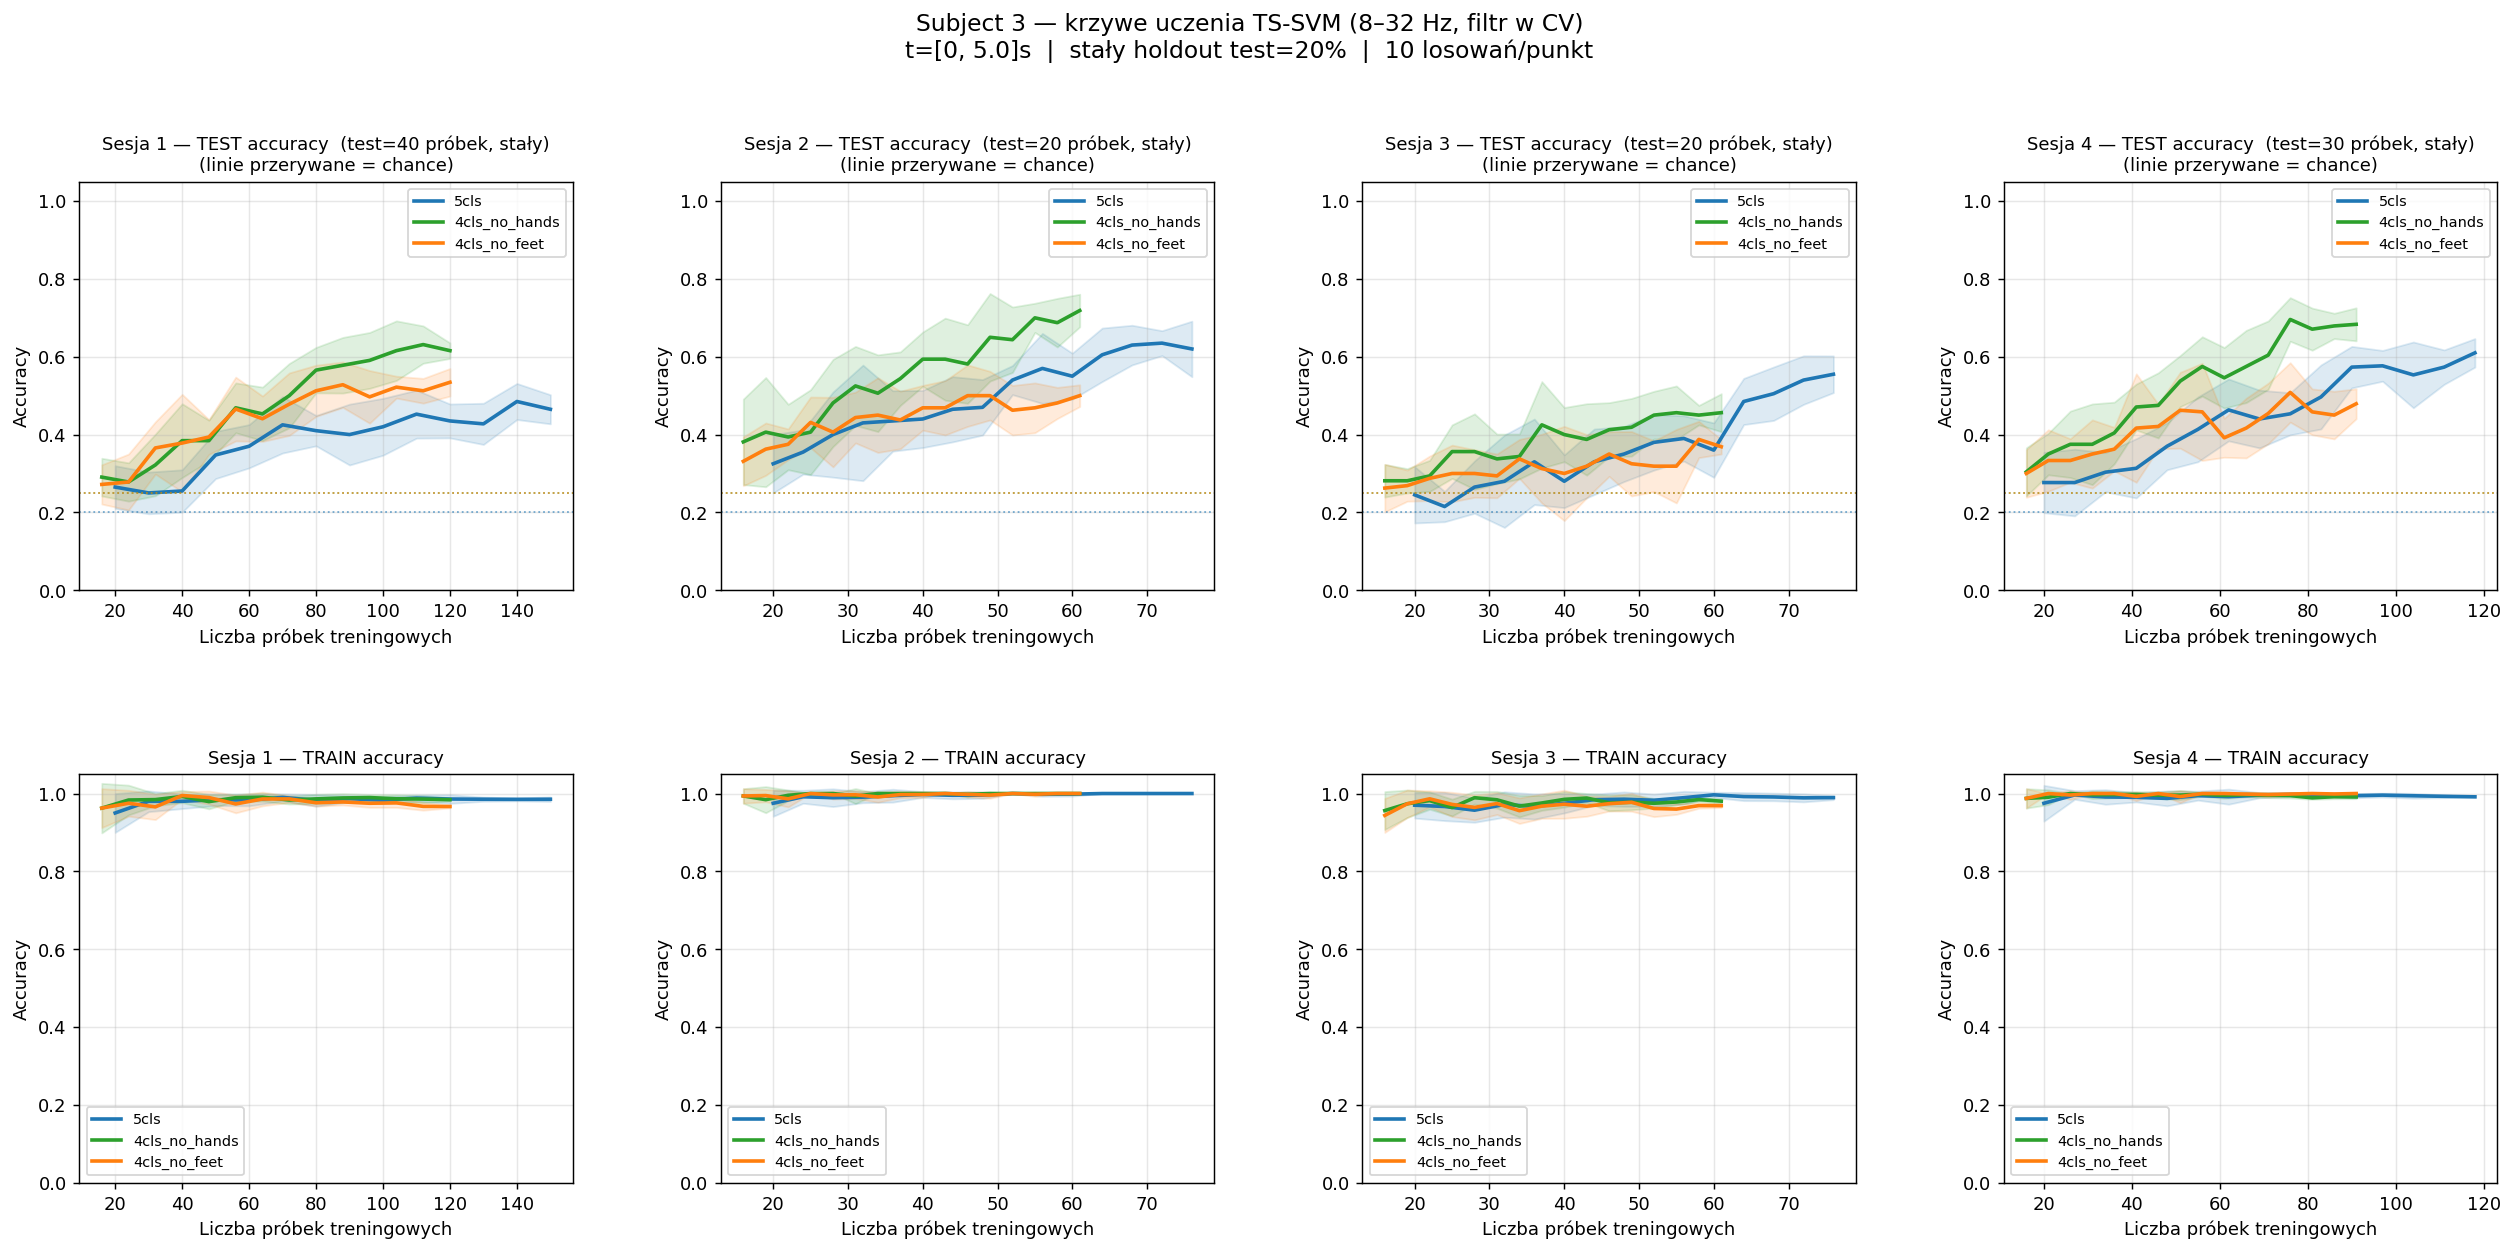
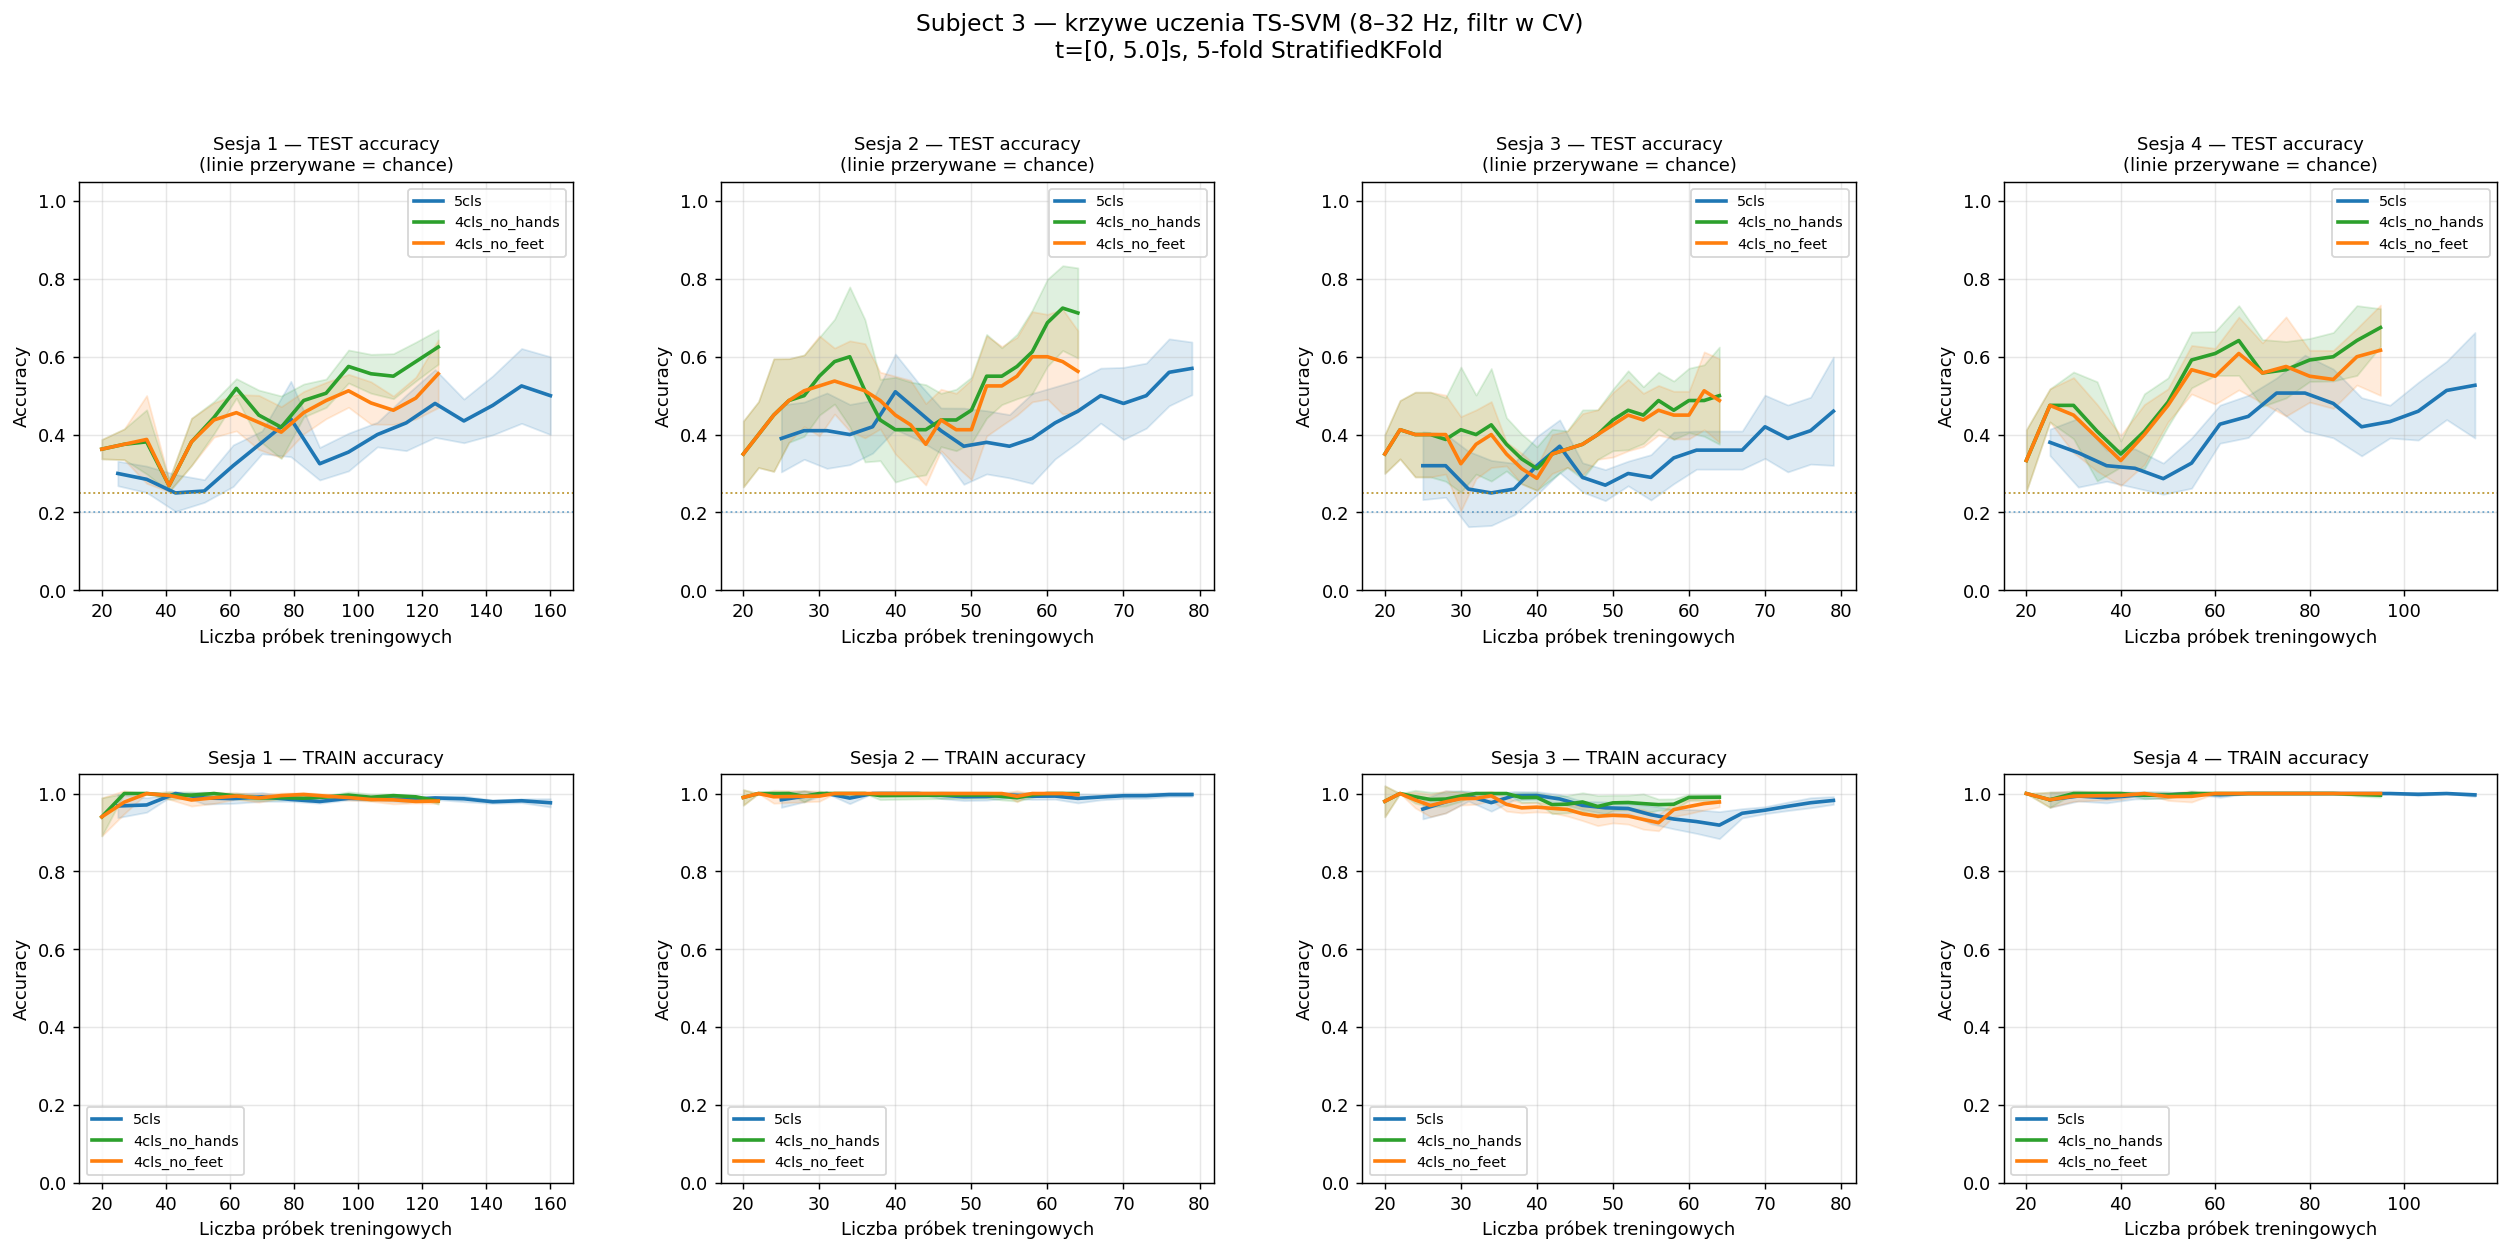
simplify test

diff --git a/learning_curve_subject3.py b/learning_curve_subject3.py
@@ -19,7 +19,7 @@ from pyriemann.tangentspace import TangentSpace
 from sklearn.base import BaseEstimator, TransformerMixin
 from sklearn.svm import SVC
 from sklearn.preprocessing import LabelEncoder
-from sklearn.model_selection import StratifiedShuffleSplit
+from sklearn.model_selection import StratifiedKFold, learning_curve
 from sklearn.pipeline import Pipeline
 
 mne.set_log_level('ERROR')
@@ -31,8 +31,7 @@ DATA_DIR   = Path("brainbot_data/5s-interval-nofiltering")
 SUBJECT_ID = 3
 TMAX       = 5.0       # interwał czasowy epoki
 N_FOLDS    = 5
-N_REPEATS  = 10    # ile razy losujemy podzbiór treningowy dla każdego rozmiaru
-TEST_FRAC  = 0.20  # stały holdout testowy
+N_JOBS     = 16         # sklearn learning_curve
 
 ALL_EVENTS = {'rest': 1, 'left_hand': 2, 'right_hand': 3, 'hands': 4, 'feet': 5}
 
@@ -115,61 +114,38 @@ def get_xy(epochs, events_filter, tmax):
 
 # ---------------------------------------------------------------------------
 # Oblicz krzywe uczenia dla jednej sesji / jednej konfiguracji klas
-#
-# Schemat:
-#   1. Stały holdout: 20% danych → test set (nigdy nie trenujemy na nim)
-#   2. Pozostałe 80% → pula treningowa
-#   3. Dla każdego train_size losujemy N_REPEATS razy podzbiór z puli
-#      i oceniamy na stałym test set → mean ± std
 # ---------------------------------------------------------------------------
-def compute_learning_curve(X, y, sfreq):
+def compute_learning_curve(X, y, sfreq, n_folds=N_FOLDS):
     n = len(X)
-    n_cls = len(np.unique(y))
-
-    # stały podział train_pool / test (stratyfikowany)
-    sss = StratifiedShuffleSplit(n_splits=1, test_size=TEST_FRAC, random_state=0)
-    train_pool_idx, test_idx = next(sss.split(X, y))
-
-    X_pool, y_pool = X[train_pool_idx], y[train_pool_idx]
-    X_test, y_test = X[test_idx],       y[test_idx]
-
-    n_pool = len(X_pool)
-    # rozmiary treningu: od min_train do n_pool (15 kroków)
-    min_train = max(n_cls * 4, 10)
-    if n_pool < min_train + 3:
+    min_cls_count = np.min(np.bincount(y))
+    # min train size: tyle żeby każda klasa miała ≥2 próbki w CV
+    min_train = max(n_folds * len(np.unique(y)), 10)
+    if n < min_train + 5:
         return None
 
-    step = max(1, (n_pool - min_train) // 14)
-    train_sizes = np.arange(min_train, n_pool, step)  # n_pool excluded (sklearn wymaga < n_pool)
-    if len(train_sizes) < 3:
+    # train_sizes jako bezwzględne liczby próbek
+    max_train = int(n * (n_folds - 1) / n_folds)
+    step = max(1, (max_train - min_train) // 15)
+    train_sizes_abs = np.arange(min_train, max_train + 1, step)
+    if len(train_sizes_abs) < 3:
         return None
 
-    test_means, test_stds   = [], []
-    train_means, train_stds = [], []
-
-    for ts in train_sizes:
-        t_scores, tr_scores = [], []
-        rng = np.random.default_rng(42)
-        for _ in range(N_REPEATS):
-            sub_idx = rng.choice(n_pool, size=int(ts), replace=False)
-            Xtr, ytr = X_pool[sub_idx], y_pool[sub_idx]
-            clf = make_ts_svm(sfreq=sfreq)
-            clf.fit(Xtr, ytr)
-            t_scores.append(clf.score(X_test, y_test))
-            tr_scores.append(clf.score(Xtr, ytr))
-
-        test_means.append(np.mean(t_scores))
-        test_stds.append(np.std(t_scores))
-        train_means.append(np.mean(tr_scores))
-        train_stds.append(np.std(tr_scores))
-
+    cv = StratifiedKFold(n_splits=n_folds, shuffle=True, random_state=42)
+    train_sizes, train_scores, test_scores = learning_curve(
+        make_ts_svm(sfreq=sfreq),
+        X, y,
+        train_sizes=train_sizes_abs,
+        cv=cv,
+        scoring='accuracy',
+        n_jobs=N_JOBS,
+        error_score='raise',
+    )
     return {
         'train_sizes':  train_sizes,
-        'n_test':       len(test_idx),
-        'test_mean':    np.array(test_means),
-        'test_std':     np.array(test_stds),
-        'train_mean':   np.array(train_means),
-        'train_std':    np.array(train_stds),
+        'test_mean':    test_scores.mean(axis=1),
+        'test_std':     test_scores.std(axis=1),
+        'train_mean':   train_scores.mean(axis=1),
+        'train_std':    train_scores.std(axis=1),
     }
 
 
@@ -202,12 +178,10 @@ def run():
             print(f"  {cfg_name}: {len(X)} epok, {n_cls} klas", end="  →  ")
             result = compute_learning_curve(X, y, sfreq)
             if result is None:
-                best = float('nan')
-                n_test = '?'
+                print("za mało próbek")
             else:
                 best = result['test_mean'].max()
-                n_test = result['n_test']
-            print(f"max acc={best:.3f}  (n_train_max={result['train_sizes'][-1] if result else '?'}, n_test={n_test})")
+                print(f"max acc={best:.3f}  (n_train_max={result['train_sizes'][-1]})")
             all_results[ses_id][cfg_name] = result
 
     # --- wykresy ---
@@ -246,14 +220,8 @@ def run():
                 result['train_mean'] + result['train_std'],
                 alpha=0.15, color=color)
 
-        # --- tytuł z info o test set ---
-        n_test_info = ""
-        for cfg_name, result in all_results[ses_id].items():
-            if result is not None:
-                n_test_info = f"  (test={result['n_test']} próbek, stały)"
-                break
-
-        ax_test.set_title(f"Sesja {ses_id} — TEST accuracy{n_test_info}\n(linie przerywane = chance)", fontsize=10)
+        # wspólna linia chance dla 5cls (dla referencji)
+        ax_test.set_title(f"Sesja {ses_id} — TEST accuracy\n(linie przerywane = chance)", fontsize=10)
         ax_test.set_xlabel("Liczba próbek treningowych")
         ax_test.set_ylabel("Accuracy")
         ax_test.legend(fontsize=8)
@@ -269,7 +237,7 @@ def run():
 
     fig.suptitle(
         f"Subject {SUBJECT_ID} — krzywe uczenia TS-SVM (8–32 Hz, filtr w CV)\n"
-        f"t=[0, {TMAX}]s  |  stały holdout test={int(TEST_FRAC*100)}%  |  {N_REPEATS} losowań/punkt",
+        f"t=[0, {TMAX}]s, {N_FOLDS}-fold StratifiedKFold",
         fontsize=13, y=1.01
     )
 
